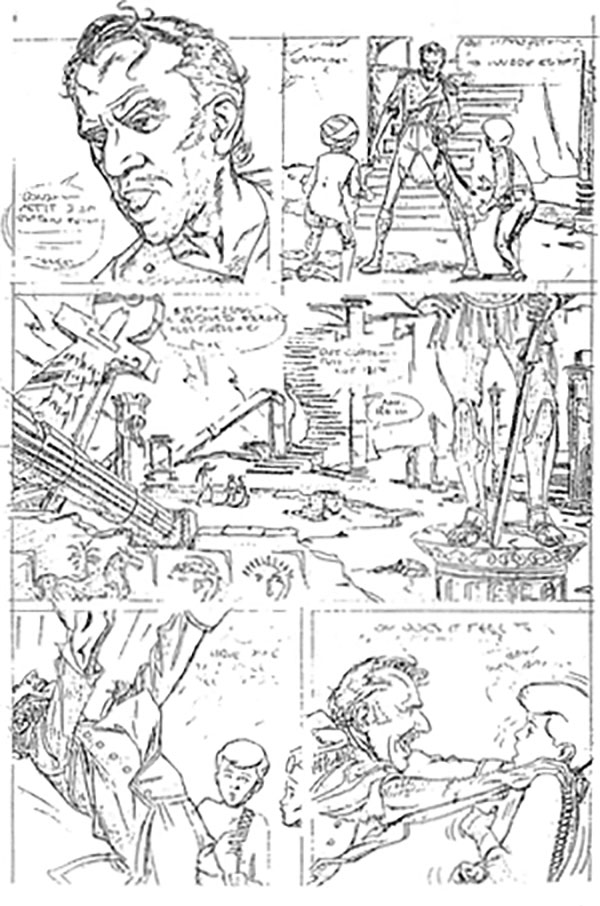
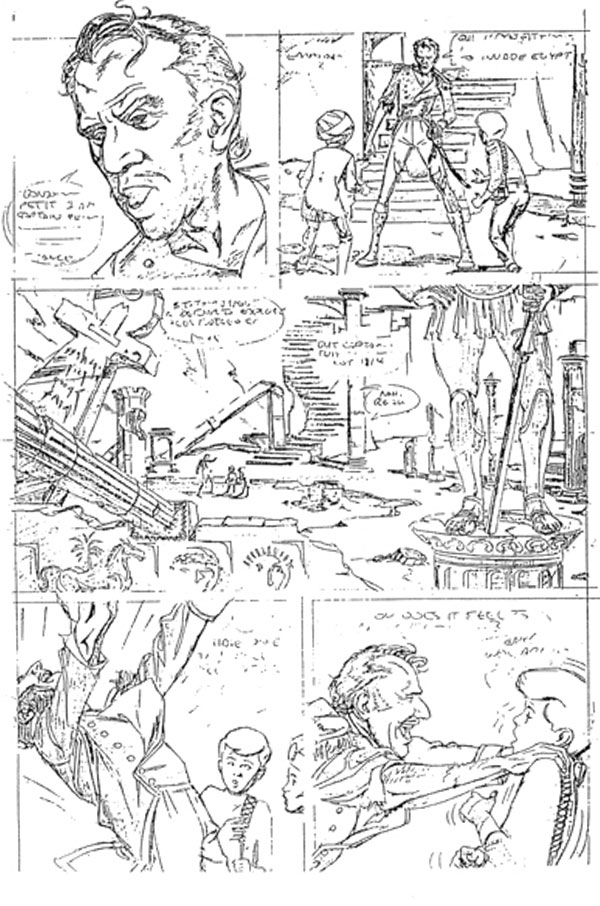
Toth v Rude update II
replaced fax images with slightly better ones from the original scans

diff --git a/Web Root/blog/alex-toth-critiques-steve-rude.html b/Web Root/blog/alex-toth-critiques-steve-rude.html
@@ -118,7 +118,7 @@
 								<div class="entry-content">	
 									<p>Steve Rude pencilled the Jonny Quest story <a href="https://jonnyquest.fandom.com/wiki/City_of_Time_Lost" target="_blank" rel="noopener noreferrer">"City of Time Lost"</a> in 1986 (<span class="book-title">Jonny Quest</span> #1, Comico). Rude faxed the work-in-progress to <a href="http://www.tothfans.com" target="_blank" rel="noopener noreferrer" aria-label="Alex Toth official">Alex Toth</a> (1928-2006) for advice. Toth, who did character designs for the 1964 animated series, responded with this hand-written critique. Copies circulated among professionals for years. It got <a href="https://web.archive.org/web/20111020034258/http://www.conceptart.org/forums/showthread.php?t=77013" target="_blank" rel="noopener noreferrer" aria-label="Concept Art forum post of Toth v Rude (archive)">posted on a discussion board</a> in 2006, after Toth died and <a href="https://www.comicsbeat.com/fight-toth-vs-rude-now-with-rude-response" target="_blank" rel="noopener noreferrer">Rude replied to his feedback</a> in print (<span class="book-title">Draw!</span> #11, May 2005).</p>
 									<p>The discussion board images were <a href="../assets/img/blog/toth-v-rude/scan-source.jpg" data-lightbox="toth-v-rude" data-title="Unmodified scan from the discussion board">300 x 450 pixel GIFs</a> of degenerative Xeroxs of Rude's long-lost faxes. Today's resolutions were unimaginable 20 years ago. Until someone gives me better versions, we'll all have to live with the pixelation.</p>
-									<p>"<a href="https://www.comics.org/issue/41458" target="_blank" rel="noopener noreferrer">City of Time Lost</a>" was written by William Messner-Loebs, inked by Mike Royer, colored by Matt Wagner, and lettered by Bob Pinaha. While the fax scans are crap, I did find high resolutions scans of the <a href="../assets/img/blog/toth-v-rude/original-art-02.jpg" data-lightbox="toth-v-rude-original-art" data-title="Original art for page 2 of City of Time Lost">original art</a> and <a href="../assets/img/blog/toth-v-rude/print-03.jpg" data-lightbox="toth-v-rude-original-print" data-title="Printed page 2 of City of Time Lost">printed comic book story</a>.<p>
+									<p>"<a href="https://www.comics.org/issue/41458" target="_blank" rel="noopener noreferrer">City of Time Lost</a>" was written by William Messner-Loebs, inked by Mike Royer, colored by Matt Wagner, and lettered by Bob Pinaha. While the fax scans are crap, I did find high resolutions scans of the <a href="../assets/img/blog/toth-v-rude/original-art-01.jpg" data-lightbox="toth-v-rude-original-art" data-title="Original art for page 1 of City of Time Lost">original art</a> and <a href="../assets/img/blog/toth-v-rude/print-03.jpg" data-lightbox="toth-v-rude-original-print" data-title="Printed page 3 of City of Time Lost">printed comic book story</a>.<p>
 									<div class="diagrams toth-v-rude img-has-border">
 										<h3 id="page-01">Page 1 of 12</h3>
 										<div class="row gx-4 diagram" aria-labelledby="page-01">
@@ -400,14 +400,17 @@
 		<script src="../assets/lib/jquery/jquery-3.5.1.min.js"></script>
 		<script src="../assets/lib/lightbox-2.11.1/js/lightbox.js"></script>
 		<div class="hidden-content" hidden>
-			<a href="../assets/img/blog/toth-v-rude/original-art-03.jpg" data-lightbox="toth-v-rude-original-art" data-title="Original art for page 3 of City of Time Lost">
-			<a href="../assets/img/blog/toth-v-rude/original-art-10.jpg" data-lightbox="toth-v-rude-original-art" data-title="Original art for page 10 of City of Time Lost">
-			<a href="../assets/img/blog/toth-v-rude/original-art-11.jpg" data-lightbox="toth-v-rude-original-art" data-title="Original art for page 11 of City of Time Lost">
-			<a href="../assets/img/blog/toth-v-rude/original-art-12.jpg" data-lightbox="toth-v-rude-original-art" data-title="Original art for page 12 of City of Time Lost">
-			<a href="../assets/img/blog/toth-v-rude/print-06.jpg" data-lightbox="toth-v-rude-original-print" data-title="Printed page 6 of City of Time Lost">
-			<a href="../assets/img/blog/toth-v-rude/print-12.jpg" data-lightbox="toth-v-rude-original-print" data-title="Printed page 12 of City of Time Lost">
-			<a href="../assets/img/blog/toth-v-rude/sands-05.jpg" data-lightbox="sands-of-khasa-tahid" data-title="Page 5 of The Sands of Khasa Tahid by Doug Wildey">
-			<a href="../assets/img/blog/toth-v-rude/sands-09.jpg" data-lightbox="sands-of-khasa-tahid" data-title="Page 9 of The Sands of Khasa Tahid by Doug Wildey">
+			<a href="../assets/img/blog/toth-v-rude/original-art-02.jpg" data-lightbox="toth-v-rude-original-art" data-title="Original art for page 2 of City of Time Lost"></a>
+			<a href="../assets/img/blog/toth-v-rude/original-art-03.jpg" data-lightbox="toth-v-rude-original-art" data-title="Original art for page 3 of City of Time Lost"></a>
+			<a href="../assets/img/blog/toth-v-rude/original-art-10.jpg" data-lightbox="toth-v-rude-original-art" data-title="Original art for page 10 of City of Time Lost"></a>
+			<a href="../assets/img/blog/toth-v-rude/original-art-11.jpg" data-lightbox="toth-v-rude-original-art" data-title="Original art for page 11 of City of Time Lost"></a>
+			<a href="../assets/img/blog/toth-v-rude/original-art-12.jpg" data-lightbox="toth-v-rude-original-art" data-title="Original art for page 12 of City of Time Lost"></a>
+			
+			<a href="../assets/img/blog/toth-v-rude/print-06.jpg" data-lightbox="toth-v-rude-original-print" data-title="Printed page 6 of City of Time Lost"></a>
+			<a href="../assets/img/blog/toth-v-rude/print-12.jpg" data-lightbox="toth-v-rude-original-print" data-title="Printed page 12 of City of Time Lost"></a>
+			
+			<a href="../assets/img/blog/toth-v-rude/sands-05.jpg" data-lightbox="sands-of-khasa-tahid" data-title="Page 5 of The Sands of Khasa Tahid by Doug Wildey"></a>
+			<a href="../assets/img/blog/toth-v-rude/sands-09.jpg" data-lightbox="sands-of-khasa-tahid" data-title="Page 9 of The Sands of Khasa Tahid by Doug Wildey"></a>
 		</div>
 	</body>
 </html>
